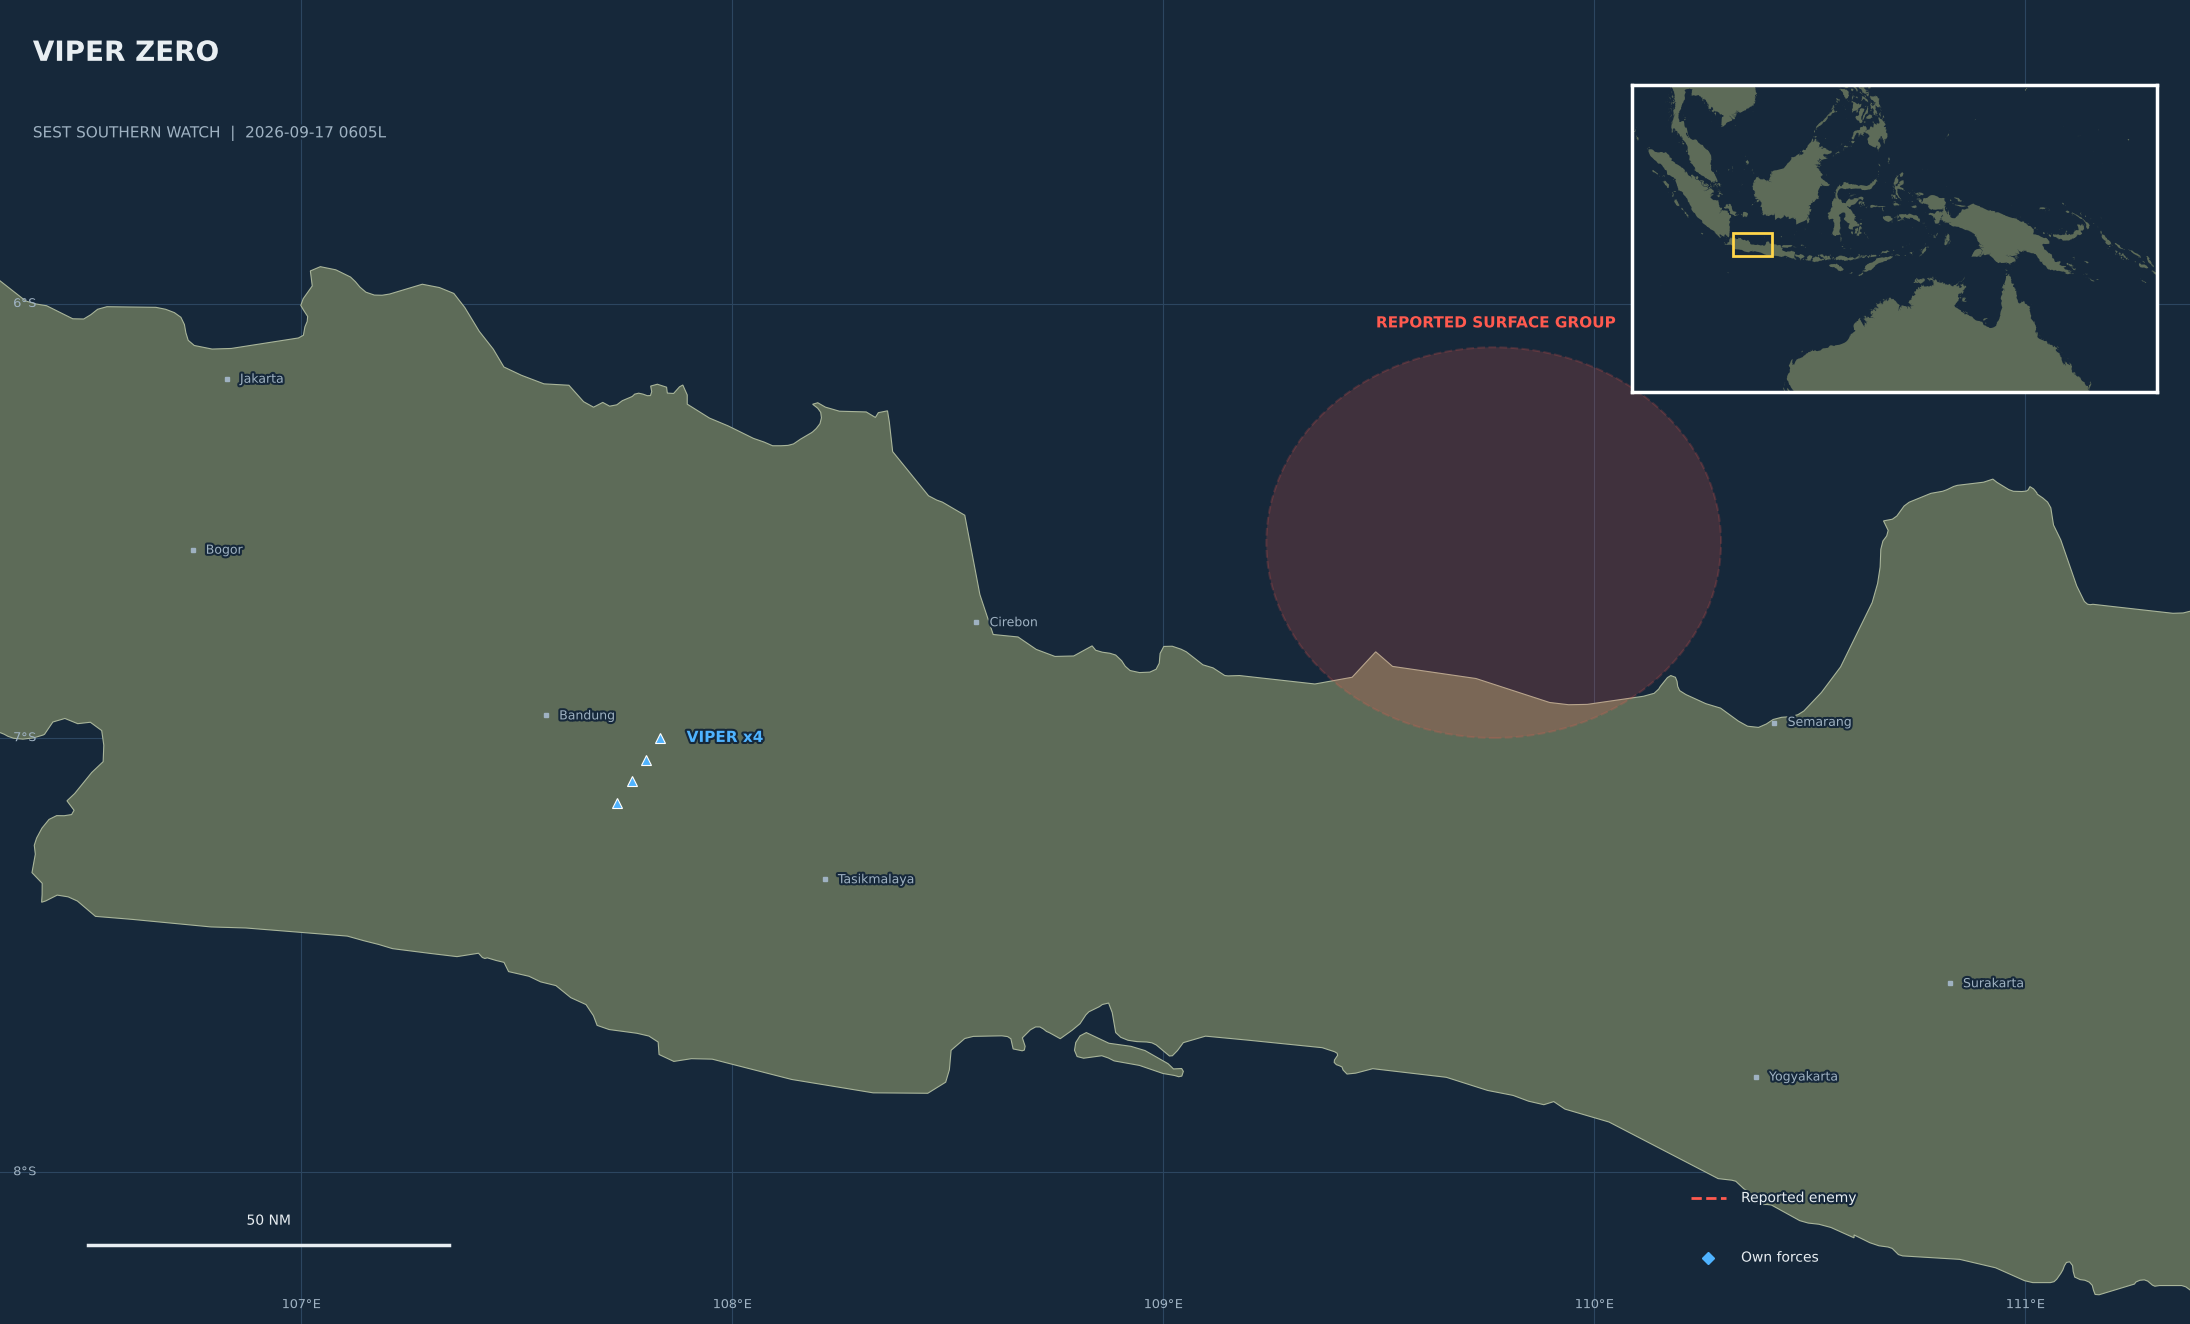
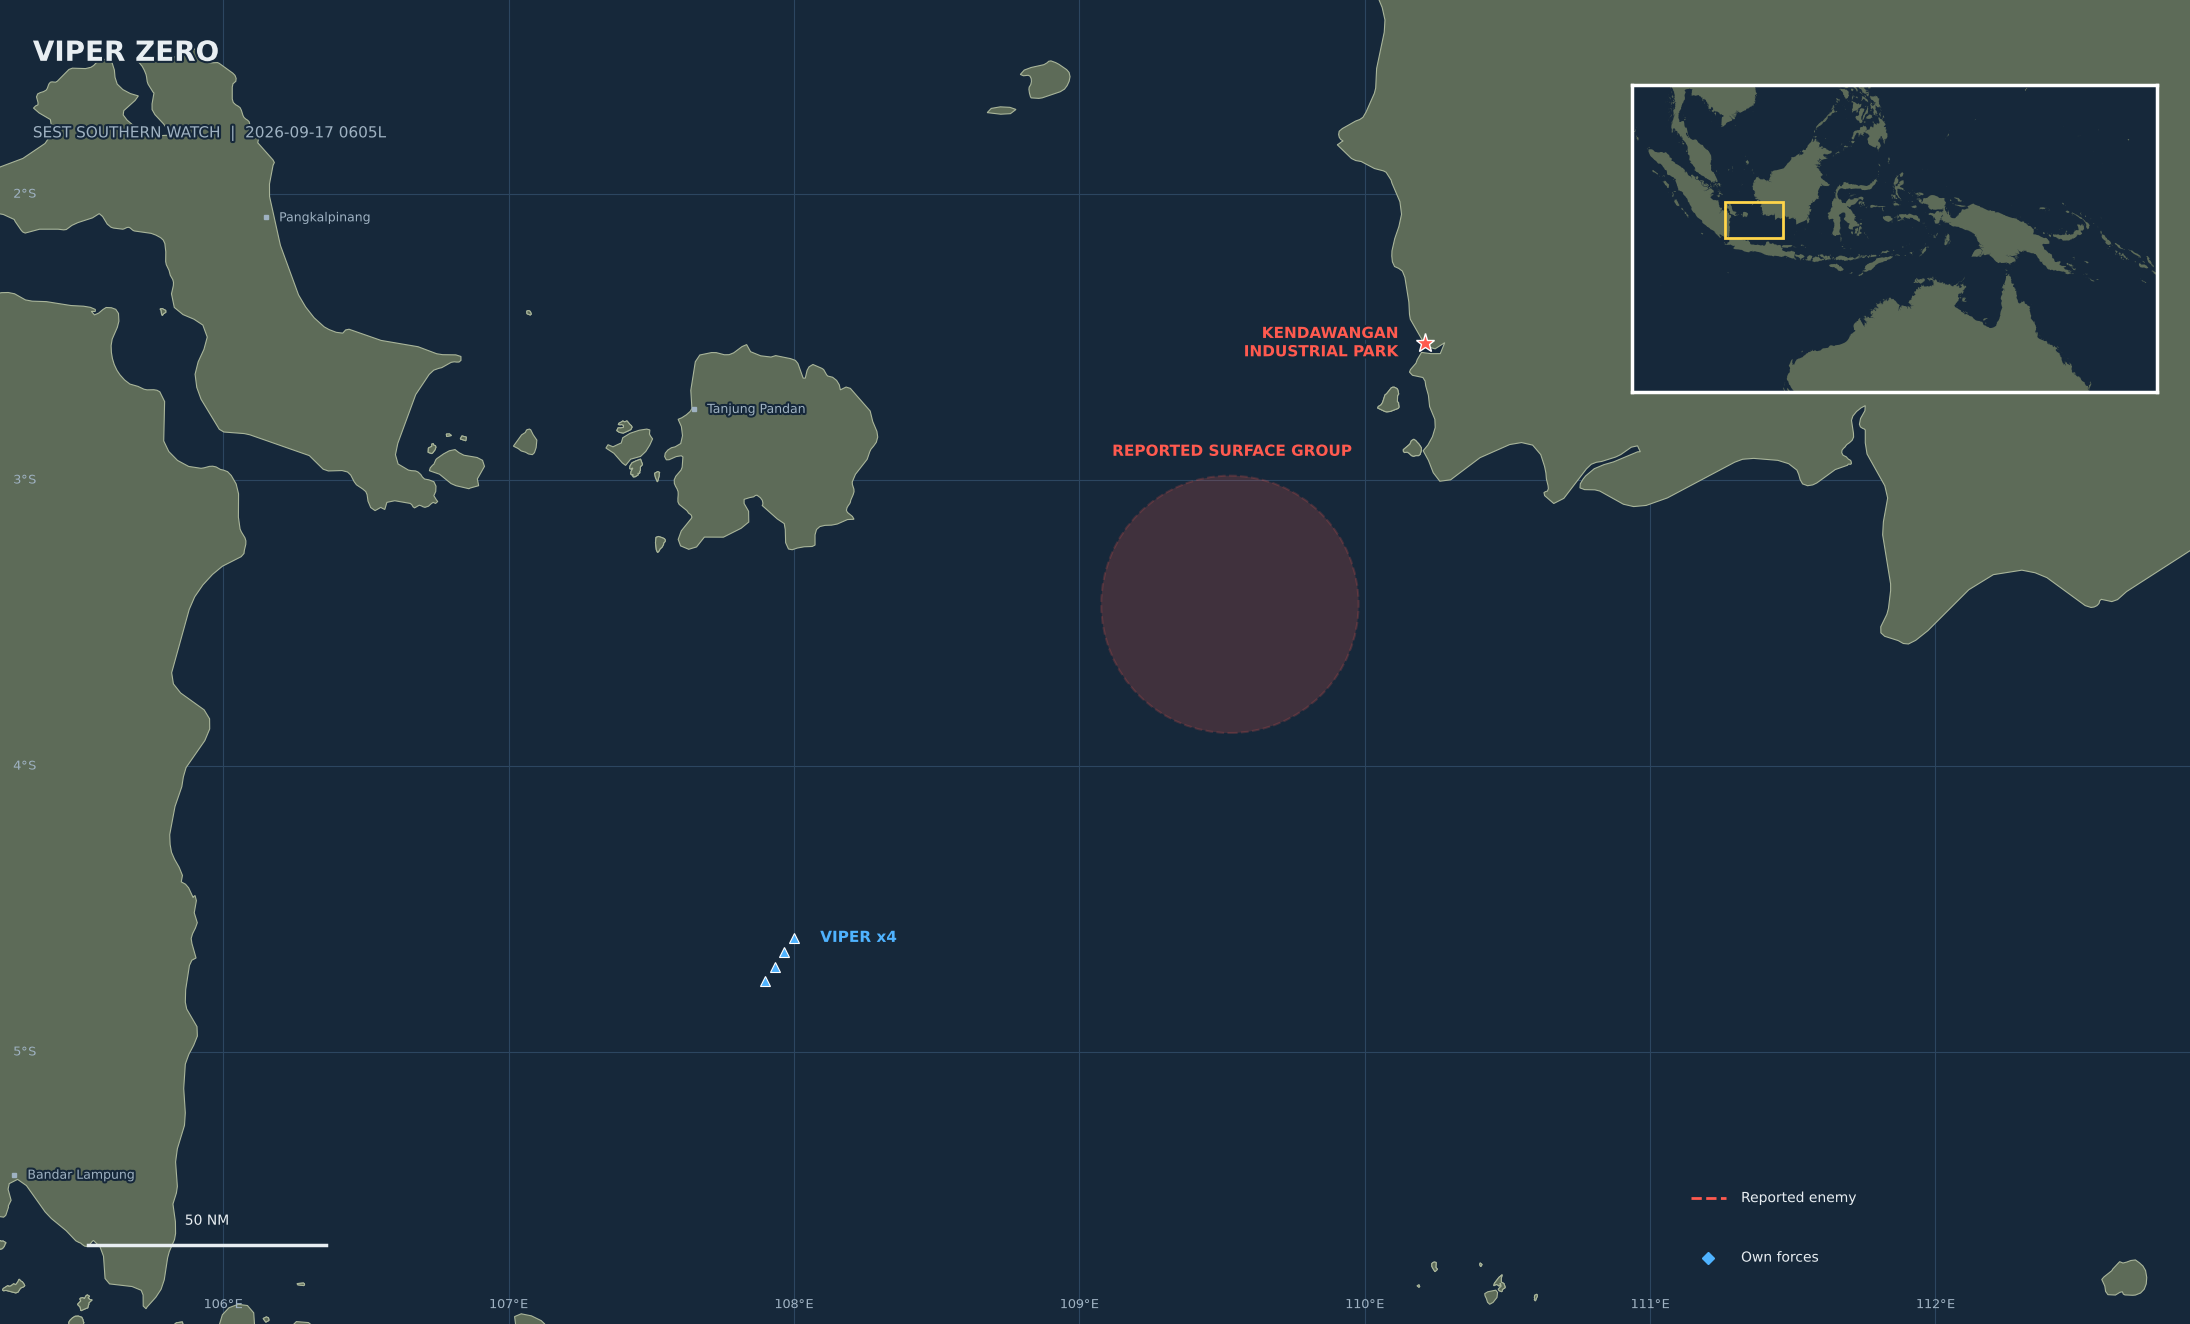
Viper Zero: fight off Kalimantan, as the briefing says; add the setup guide
The landing group sat off Java's north coast, between Cirebon and Semarang,
while the briefing put it off Kalimantan. It now stands in toward the
Kendawangan industrial park (the parent sandbox's Kalimantan lodgement) from
the Karimata Strait, with the F-2s ~110 nm south-west over the Java Sea.
The briefing map marks the park so the destination is on the chart.

docs/workshop/SETUP.md walks from checkout to a published pack, campaign
and collection.

Claude-Session: https://claude.ai/code/session_011tC1FWbF8mAQja8LKayCCZ

diff --git a/integration/missions/build_briefing_maps.py b/integration/missions/build_briefing_maps.py
@@ -60,6 +60,12 @@ SEA, LAND, COAST = "#16283a", "#5d6b58", "#a9b59a"
 GRID, TEXT, MUTED = "#2c4660", "#e8eef2", "#9fb2c2"
 FRIEND, HOSTILE, NEUTRAL = "#4fb3ff", "#ff5a4f", "#d9c35b"
 
+# Places a briefing names that no unit in the mission marks. They widen the
+# map so the thing the text talks about is actually on it.
+LANDMARKS = {
+    "Viper Zero": [("KENDAWANGAN\nINDUSTRIAL PARK", -2.52, 110.21)],
+}
+
 UNIT = re.compile(r"^\[(Taskforce(\d)|Neutral)(Vessel|Aircraft|Submarine|LandUnit)(\d+)\]")
 
 
@@ -153,7 +159,8 @@ def draw(mission, out_png, geo):
 
     units = [u for u in mission["units"]
              if not (u["side"] == "hostile" and u["kind"] == "Submarine")]
-    shown = units or mission["units"]
+    marks = LANDMARKS.get(mission["title"], [])
+    shown = (units or mission["units"]) + [{"lat": la, "lon": lo} for _, la, lo in marks]
     box = extent(shown)
     w, s, e, n = box
     k = math.cos(math.radians((s + n) / 2))
@@ -199,6 +206,13 @@ def draw(mission, out_png, geo):
         ax.plot(lon, lat, "s", ms=3 * SCALE / 2, color=MUTED, zorder=3)
         ax.text(lon + (e - w) * 0.006, lat, p["name"], color=MUTED,
                 fontsize=9 * SCALE / 2, va="center", zorder=3, path_effects=halo)
+
+    for label, la, lo in marks:
+        ax.plot(lo, la, "*", ms=14 * SCALE / 2, color=HOSTILE, mec="white", zorder=6)
+        # to the left of the star: the right edge is under the locator inset
+        ax.text(lo - (e - w) * 0.012, la, label, color=HOSTILE, ha="right",
+                fontsize=11 * SCALE / 2, weight="bold", va="center", zorder=6,
+                path_effects=halo)
 
     # neutral shipping
     for u in units:

diff --git a/integration/missions/build_banda_vignettes.py b/integration/missions/build_banda_vignettes.py
@@ -383,16 +383,20 @@ V.append(dict(
     blue=[],
     blue_names=[],
     blue_air=[
-        ("jp_f-2a_late", "-1330,22000,-60", 60, {"LoadoutVariant": "AntiShip"}),
-        ("jp_f-2a_late", "-1332,22000,-63", 60, {"LoadoutVariant": "AntiShip"}),
-        ("jp_f-2a_late", "-1334,21000,-66", 60, {"LoadoutVariant": "AntiShip"}),
-        ("jp_f-2a_late", "-1336,21000,-69", 60, {"LoadoutVariant": "AntiShip"}),
+        # Over the Java Sea, ~110 nm south-west of the landing group.
+        ("jp_f-2a_late", "-1320,22000,84", 55, {"LoadoutVariant": "AntiShip"}),
+        ("jp_f-2a_late", "-1322,22000,81", 55, {"LoadoutVariant": "AntiShip"}),
+        ("jp_f-2a_late", "-1324,21000,78", 55, {"LoadoutVariant": "AntiShip"}),
+        ("jp_f-2a_late", "-1326,21000,75", 55, {"LoadoutVariant": "AntiShip"}),
     ],
     blue_air_names=["Viper 01", "Viper 02", "Viper 03", "Viper 04"],
     red=[
-        ("plan_lpd_type_071", "-1215,0,-33", 90, {}),
-        ("plan_type_054a_p5", "-1224,0,-30", 90, {}),
-        ("plan_type_056a", "-1203,0,-36", 90, {}),
+        # Karimata Strait, ~65 nm SW of the Kendawangan industrial park
+        # (parent LandUnit108-116, 2.52S 110.21E) and standing in toward it.
+        # These sat off Java's north coast until the briefing map showed it.
+        ("plan_lpd_type_071", "-1227,0,153", 35, {}),
+        ("plan_type_054a_p5", "-1224,0,160", 35, {}),
+        ("plan_type_056a", "-1234,0,149", 35, {}),
     ],
     red_names=["Type 071 Landing Ship", "Type 054A Escort", "Type 056A Escort"],
     neutral=[],

diff --git a/tools/build_workshop.py b/tools/build_workshop.py
@@ -337,7 +337,7 @@ across the Banda, Timor, Arafura and Coral Seas.
                + CHECKLIST.format(
                    folder=PACK_FOLDER, tags="Modern, Units, Weapons",
                    pack_note="\n   Remove the local copy first "
-                   "(`install-sest-packs.ps1 -Remove`) or the game lists two.")
+                   "(`install-sest-packs.ps1 -Uninstall`) or the game lists two.")
                + f"\n## Required items ({len(pack_need)})\n\n"
                + req_table(pack_need, cat)
                + "\n\n## Steam description (paste as-is)\n\n```\n" + pack_bb + "```\n")

diff --git a/docs/workshop/SETUP.md b/docs/workshop/SETUP.md
@@ -1,0 +1,152 @@
+# Setup, step by step: from this branch to the Steam Workshop
+
+Everything runs on the gaming PC, in PowerShell, from the repo root
+(`cd <path>\Seapower-mods`). **Keep Sea Power closed unless a step tells you
+to launch it.**
+
+---
+
+## Part A: get the new build onto the PC
+
+**1. Switch to the release branch.** This work is on `sest-dev/peaceful-gauss-e1zvfq`,
+which is your deploy branch (`feature/northern-front-iii-export`) plus the Workshop
+and briefing-map commits.
+
+```powershell
+git fetch origin
+git checkout sest-dev/peaceful-gauss-e1zvfq
+git pull
+```
+
+**2. Install and set the mod order.** `-AnyBranch` is needed because
+`data\deploy-branch.txt` still names the old branch; `sync-sest` refuses other
+branches without it.
+
+```powershell
+powershell -ExecutionPolicy Bypass -File .\tools\sync-sest.ps1 -AnyBranch -SkipPull
+```
+
+Watch for these lines in the output:
+
+- `briefing   SEST Banda - ... _briefing`, 13 of them. The map folders landed.
+- `IN LINE` at the end. The deployed pack matches the build.
+
+**3. Run the pre-flight checks.** Each one must end without errors.
+
+```powershell
+python tools\check_load_order.py
+python tools\check_dependencies.py
+python tools\preflight.py
+```
+
+---
+
+## Part B: test in game
+
+**4. Launch Sea Power.** In the Mod Manager, confirm **SEST Integration Pack** is
+enabled and at the **very top**.
+
+**5. Open a SEST mission.** In the mission list, open **SEST Banda - Viper Zero**.
+
+- Left pane: the briefing text (this already worked).
+- **Right pane: the new map.** It shows the landing group in the Karimata Strait,
+  the Kendawangan industrial park on the Kalimantan coast, and VIPER x4 to the south-west.
+
+If the right pane is **still blank**, stop here and report it. The map image's
+name or format then needs adjusting before anything goes on the Workshop.
+
+**6. Play one mission to the end.** Viper Zero is a good one to check, because its
+positions just moved. You win by sinking the Type 071.
+
+**7. Quit the game.**
+
+---
+
+## Part C: build the Workshop upload folders
+
+**8. Stage both items.**
+
+```powershell
+python tools\build_workshop.py
+```
+
+This creates, inside `integration\workshop\staging\`:
+
+| Folder | Becomes |
+|---|---|
+| `SEST_Integration\` | Workshop item 1: *Definitive Modernised Seapower - SEST Integration Pack* |
+| `SEST_Southern_Watch\` | Workshop item 2: *Southern Watch* (13 missions + their briefing maps) |
+
+**9. Make two preview images.** Each should be square, PNG and under 1 MB. Save them as
+`preview.png` in each staging folder. A cropped briefing map works well for the campaign:
+`integration\missions\SEST Banda - Fujian's Shadow_briefing\sest_fujian_s_shadow_map.png`.
+
+---
+
+## Part D: publish the pack (item 1)
+
+**10. Remove the locally installed pack** so the game doesn't list two copies:
+
+```powershell
+powershell -ExecutionPolicy Bypass -File .\tools\install-sest-packs.ps1 -Uninstall
+```
+
+**11. Copy** `integration\workshop\staging\SEST_Integration\` into
+`...\Sea Power_Data\StreamingAssets\`.
+
+**12. Upload it** with the game's Workshop upload tool. Use:
+
+- **Title:** `Definitive Modernised Seapower - SEST Integration Pack`
+- **Description:** the BBCode block in `docs\workshop\definitive-modernised-seapower.md`
+- **Visibility:** **Unlisted** for now
+
+**13. Add the Required Items.** On the new item's Steam page, open **Add/Remove Required
+Items** and add all 46 from the table in that same doc.
+
+**14. Write down the new Workshop ID.** It's the number in the item's URL.
+
+---
+
+## Part E: publish the campaign (item 2)
+
+**15. Copy** `integration\workshop\staging\SEST_Southern_Watch\` into
+`StreamingAssets\` and upload it the same way:
+
+- **Title:** `Southern Watch - A Definitive Modernised Seapower Campaign`
+- **Description:** the BBCode block in `docs\workshop\southern-watch.md`
+- **Visibility:** **Unlisted**
+
+**16. Add the Required Items.** Add the 25 listed mods, plus **the pack from step 14**.
+
+---
+
+## Part F: test like a player, then go public
+
+**17. Remove the local copies** you made in steps 11 and 15 from `StreamingAssets\`.
+
+**18. Subscribe to both items** from their Steam pages and accept the prompt to
+subscribe to their Required Items.
+
+**19. Launch the game.** Move the pack to the top of the Mod Manager and check that
+**SEST Southern Watch** appears in the mission list with maps on its briefings. Play
+one mission.
+
+**20. Set both items to Public.**
+
+**21. Create the collection.** On the Workshop, choose **Create Collection** and name
+it *Definitive Modernised Seapower*. Add the two SEST items first, then the mods listed in
+`docs\workshop\collection.md`, and publish it.
+
+---
+
+## Part G: after publishing
+
+**22. Point the load order at the Workshop copy.** The pack's load-order token changes
+from `SEST_Integration` to its new Workshop ID. Say so in a session and the repo side
+(`data\load-order.tokens.txt`, the checkers, `install-sest-packs.ps1`) gets updated
+to match. Until then, don't run `sync-sest`: it would reinstall the local copy next
+to the subscribed one.
+
+**23. For updates:** rebuild (`python tools\build_all.py`, then
+`python tools\build_workshop.py`) and re-upload the changed item to the **same**
+Workshop ID.

diff --git a/docs/workshop/definitive-modernised-seapower.md b/docs/workshop/definitive-modernised-seapower.md
@@ -12,7 +12,7 @@ Generated by `tools/build_workshop.py` - do not edit by hand.
 2. Copy `integration/workshop/staging/SEST_Integration/` into
    `Sea Power_Data/StreamingAssets/` - the same place `install-sest-packs.ps1`
    puts local packs.
-   Remove the local copy first (`install-sest-packs.ps1 -Remove`) or the game lists two.
+   Remove the local copy first (`install-sest-packs.ps1 -Uninstall`) or the game lists two.
 3. Add a `preview.png` (Steam wants a square image under 1 MB) - the staging
    folder does not ship one.
 4. Publish with the game's own Workshop upload flow. Title and description

diff --git a/README.md b/README.md
@@ -54,7 +54,8 @@ powershell -ExecutionPolicy Bypass -File .\tools\export-mod-configs.ps1 -Include
 
 ## Publishing on the Steam Workshop
 
-Two items and a collection. `docs/workshop/` holds the descriptions, derived
+Two items and a collection. Start with `docs/workshop/SETUP.md` (step by step).
+`docs/workshop/` also holds the descriptions, derived
 Required Items and upload checklists:
 
 - **Definitive Modernised Seapower - SEST Integration Pack**: the consolidated pack
